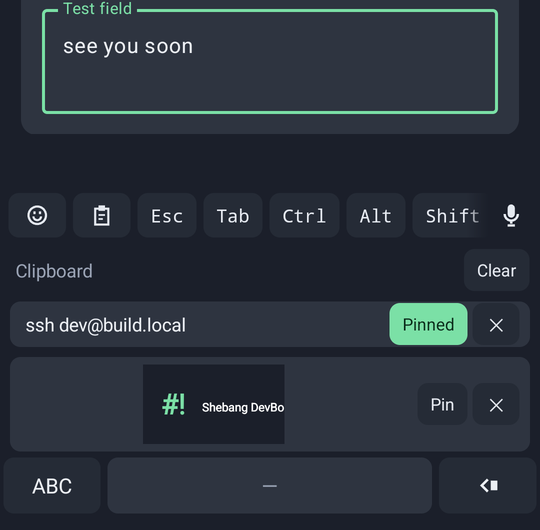
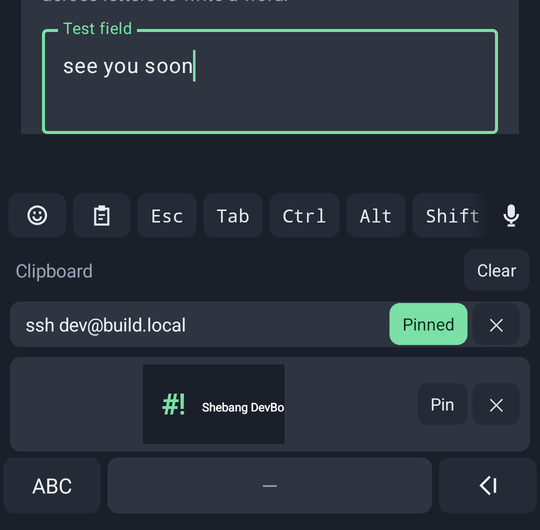
Docs pass: fresh screenshots, README brought up to date
The keyboard screenshots are retaken with the new backspace glyph (Night
theme, same framing). The README's feature list gains the panels, email
addresses and diagnostics; the code table loses KeyEventMapper (gone) and
gains the newer classes; the toolchain notes the voice module and lint; the
autocorrect paragraph has the current contraction rule; the load time is
the latest measurement; the checklist drops the long-press-space and
Search-label items and ticks what was verified on the emulator today.

Claude-Session: https://claude.ai/code/session_01PEB9TZ613mdLMxgXnrAFvE

Changed region(s): [[0.0593, 0.0, 0.9481, 0.1509], [0.0593, 0.2113, 0.9481, 0.2717], [0.8889, 0.9057, 0.9185, 0.9358]]

diff --git a/README.md b/README.md
@@ -2,7 +2,8 @@
 
 An Android keyboard (IME) for developers, written in Kotlin.
 
-- **Text mode**: QWERTY with suggestions, long-press alternates and auto-capitalisation, and glide typing
+- **Text mode**: QWERTY with suggestions, long-press alternates (a letter's capital first) and
+  auto-capitalisation, and glide typing
   that decodes while the finger moves: the strip shows the word before you lift; the word before is taken
   into account; tap inside a word (or double-tap it) and glide to redo it; the keyboard learns your words
   and how you swipe, on the phone; and (optionally) one stroke can write several words by dipping into the
@@ -13,11 +14,14 @@ An Android keyboard (IME) for developers, written in Kotlin.
   they do in text mode; `%` and `^` are held on 5 and 6. No shift, no autocorrect.
 - **Terminal bar**: a horizontally scrolling strip of terminal keys (Esc, Tab, Ctrl, Alt, ^C, arrows, F1-F12,
   snippets...) that sends real `KeyEvent`s, so Termux and other terminals receive them. Sticky modifiers let
-  `Ctrl` then `c` on the main keyboard send Ctrl+C.
+  `Ctrl` then `c` on the main keyboard send Ctrl+C. Its first two items open the emoji panel and the
+  clipboard history (text and pictures, with pins).
 - **Autocorrect that knows where you tapped**: a slip is weighed by where the finger came down, and the
   keyboard learns where your own taps land on each key.
 - **Field-aware**: terminals (`TYPE_NULL`) get raw characters and no composing; passwords get no
   suggestions or glide; number/phone/date fields get a numeric pad; email/URL fields get `@` and `/`.
+- **Email addresses** typed into email fields are offered there again as you type, and **Export
+  diagnostics** saves a file you can send the developer, with nothing personal in it.
 - **Autofill in the strip** (Android 11+): the password manager's or autofill service's suggestions show as
   chips in the strip, in the keyboard's colours; tapping one fills the form.
 - **On-device only**: the sole permission is `VIBRATE`. No network code, no analytics. What the keyboard
@@ -89,13 +93,15 @@ python-ml tools/lm_model/export.py lm.pt app/src/main/assets/dict/en_next_word.b
 
 | Package (`dev.shebang.devboard.`) | What lives there |
 |---|---|
-| `ime` | `DevBoardService` (the `InputMethodService`), `FieldInfo` (EditorInfo -> what the field allows), `TextInputController` (composing, suggestions, smart spacing, redoing a tapped word, what is learned when), `GlideText` (context word and casing), `LanguageLoader` and `LanguageBuilder` (background load and rebuilds with learned words), `SystemUserDictionary` (Android's personal dictionary), `KeyboardSizing`, `Feedback` |
+| `ime` | `DevBoardService` (the `InputMethodService`), `FieldInfo` (EditorInfo -> what the field allows), `TextInputController` (composing, suggestions, smart spacing, redoing a tapped word, what is learned when), `GlideText` (context word and casing), `LanguageLoader` and `LanguageBuilder` (background load and rebuilds with learned words), `SystemUserDictionary` (Android's personal dictionary), `ClipboardHistory` and `ClipboardChip`, `EmailMemory` (remembered addresses), `VoiceClient` (the Shebang Voice add-on) and `DictationCleanup`, `LayoutRepository`, `KeyboardSizing`, `Feedback` |
 | `layout` | JSON models (`LayoutDef`, `KeyDef`, `BarItem`), `LayoutParser`, `KeyboardGeometry` (pixel positions computed at runtime), `KeyCodeNames` |
-| `view` | `KeyboardView` (one Canvas-drawn view with its own multitouch), `KeyPopup` (preview and alternates), `TerminalBarView`, `SuggestionStripView`, `TopStripView`, `KeyboardTheme` |
-| `input` | `ModifierState` (sticky modifier state machine), `KeyEventMapper`/`CharKeyCodes` (character -> keycode plans), `KeySender` (down/up KeyEvents with meta state) |
+| `view` | `KeyboardView` (one Canvas-drawn view with its own multitouch), `KeyPopup` (preview and alternates), `KeyIcons` (the key glyphs), `TerminalBarView`, `SuggestionStripView`, `AutofillStripView`, `TopStripView`, `EmojiPanelView`, `ClipboardPanelView` and `PanelKeys`, `MicButton`, `KeyboardTheme` and `Palettes` |
+| `input` | `ModifierState` (sticky modifier state machine), `CharKeyCodes` and `KeyEventPlan` (character -> keycode plans), `KeySender` (down/up KeyEvents with meta state) |
 | `glide` | `LexiconTrie` (the dictionary as a tree of key sequences), `StreamingGlideDecoder` (beam search while the finger moves, exact re-alignment after lift, joint decoding across words), `GlideModel` (the learned reading of strokes), `GlideSession` (decoder thread fed by a lock-free ring), `GlideAdaptation` and `TapModel` (where this user's glides and taps land), `GlideTrace` (recorded glides), `KeyLayoutModel` |
-| `dict` | `Dictionary` (sorted word list with tiers), `NgramModel` (word, word-pair and three-word statistics), `NextWordModel` (the neural next-word model), `WordPredictions` (the strip's next words from both), `Suggester` (prefix completion + edit-distance correction), `LetterPrior` |
-| `settings` | `Settings`, `SettingsRepository` (DataStore), `SetupActivity`, `SettingsActivity` with the bar editor and the glide recorder (Compose + Material 3), `GlideRecorderView`, `GlideTraceStore` |
+| `dict` | `Dictionary` (sorted word list with tiers), `PersonalWords` (learned words), `NgramModel` (word, word-pair and three-word statistics), `NextWordModel` (the neural next-word model), `WordPredictions` (the strip's next words from both), `Suggester` (prefix completion + edit-distance correction), `LetterPrior` |
+| `settings` | `Settings`, `SettingsRepository` (DataStore), `SetupActivity`, `SettingsActivity` with the bar editor and the glide recorder (Compose + Material 3), `PersonalWordsScreen`, `AboutScreen`, `DiagnosticsExport`, `AppProfiles` (each app's mode and bar), `GlideRecorderView`, `GlideTraceStore` |
+
+The Shebang Voice add-on is the `voice` module (`dev.shebang.devboard.voice`); see its section below.
 
 Layouts live in `app/src/main/assets/layouts/*.json`, the default terminal bar in `assets/bar/default.json`,
 the word list in `assets/dict/en_words.txt`, the n-gram model in `assets/dict/en_ngrams.bin`, the next-word model
@@ -287,7 +293,10 @@ Ambiguities were resolved with the simplest sensible option; each is recorded he
   activity-compose to 1.12.4, the newest releases that compile against 36. Bump all five together when
   platform 37 is installed.
 - **Toolchain**: Gradle 9.7.1, AGP 9.4.1 with its built-in Kotlin support (no `kotlin-android` plugin),
-  Kotlin 2.4.20 compiler plugins for Compose and kotlinx.serialization, JDK 21, single `app` module.
+  Kotlin 2.4.20 compiler plugins for Compose and kotlinx.serialization, JDK 21; two modules, `app` (the
+  keyboard) and `voice` (the Shebang Voice add-on). Static analysis is Android Lint, failing on errors, in CI
+  and in the build; it reports nothing in `voice` and two untranslated labels in `app` (the app is English
+  only), and the Kotlin compiler reports no warnings.
 - **Word list**: SCOWL 2020.12.07, `english` + `american` lists (American spelling), size levels 10 to 50 as
   frequency tiers, plus contractions, capitalised words, SCOWL's proper names (brands, products, people) and
   abbreviations written in capitals of three letters or more (and a few two-letter ones people type, such as
@@ -584,7 +593,7 @@ Ambiguities were resolved with the simplest sensible option; each is recorded he
   never displace it.
 - **Autocorrect** (on space, and on sentence punctuation; on enter and a following glide when the suggestions
   are for the word) leaves a dictionary word alone, except one typed without the apostrophe of a contraction
-  at least 50 times more common ("cant", "wont", "dont"; "its", "were", "well" and "ill" stay). Otherwise the
+  at least 20 times likelier after the two words before it (see "its" or "it's" above). Otherwise the
   most likely of the six suggestions wins, among common words (tier 35 or better, or used by the user) within
   one slip (two from six letters): frequency times exp(-6 x slip cost) times 0.35 for a wrong first letter.
   Slip costs follow how fingers miss on QWERTY: a skipped apostrophe 0.2, one of a double letter dropped 0.4,
@@ -666,9 +675,9 @@ Ambiguities were resolved with the simplest sensible option; each is recorded he
 - **Build order**: the four phases were built in one pass because the service integrates the bar, dictionary
   and glide from the start; the git history groups the work by layer (core logic, IME and UI, docs) with each
   commit building.
-- **Language load time**: the dictionary loads in 2.5 s and the n-gram model and letter tree in 2.7 s on the
-  API 36 emulator right after install (not yet compiled ahead of time); the keyboard appears at once and
-  glide starts working when both are in.
+- **Language load time**: 0.5 to 1.2 s on the API 36 emulator, 2.4 s on the first start after installing
+  (not yet compiled ahead of time); the keyboard appears at once and glide starts working when the language
+  is in. Still to be measured on a phone (R7).
 
 ## Shebang Voice (add-on)
 
@@ -684,7 +693,7 @@ tuned (ARM instruction sets chosen at runtime).
 
 How it works: the keyboard shows a mic at the right end of the strip once the add-on is installed (in text
 mode, in fields that take typed words); otherwise Settings > Voice typing links to the GitHub releases. A tap
-binds the add-on's service with BIND_INCLUDE_CAPABILITIES, which lends it the keyboard's foreground status so
+binds the add-on's service with BIND_INCLUDE_CAPABILITIES (Android 10 and later), which lends it the keyboard's foreground status so
 Android does not silence its microphone. The add-on answers only apps signed with its own key, so the
 keyboard needs no permission entry for it (a `<queries>` entry lets it see the add-on). It records,
 cuts the audio at 500 ms pauses (or at 25 s), and transcribes each piece as it comes, so text arrives sentence by sentence;
@@ -765,9 +774,16 @@ Fields (the setup screen has a multiline test field; a browser form has the rest
 - [ ] Password: no suggestions, no glide, no preview text left anywhere.
 - [x] Autofill (with a test autofill service on the emulator): chips in the strip in the keyboard's colours;
   tapping one filled the username and password.
-- [ ] URL/email: `@` and `/` on the bottom row; no auto-capitalisation.
+- [x] Email: `@` and `/` on the bottom row. *(verified on the emulator in Contacts)*
+- [ ] URL: `@` and `/` on the bottom row; no auto-capitalisation in URL or email fields.
+- [x] Email field: an address typed there and left is offered in an empty email field and fills it in.
+      *(verified on the emulator in Contacts)*
 - [ ] Number/phone: numeric pad; `#!` still reaches code mode.
-- [ ] Multiline: Enter inserts a newline; a Search field shows "Search" and performs it.
+- [ ] Multiline: Enter inserts a newline; a Search field keeps the enter icon and performs the search.
+- [x] Type "wiht cat ", backspace back to the corrected "with": it stays, and "wiht" is first on the strip;
+      tapping it puts it back. *(verified on the emulator)*
+- [x] Settings > About > Export diagnostics saves a file with no learned words or email addresses in it.
+      *(verified on the emulator)*
 
 Layout:
 - [x] Rotate to landscape: keys re-flow to the IME window's width (narrower than the display with a cutout),
@@ -775,5 +791,10 @@ Layout:
 - [ ] Change keyboard height in settings: the keyboard resizes immediately; glide still decodes.
 - [ ] Number row on: a fifth row appears in text mode only.
 - [ ] Strip: Auto swaps bar and suggestions; Always bar never shows suggestions; Two rows shows both.
-- [ ] Long-press space opens the system keyboard picker; dragging along space moves the cursor.
-- [ ] Shift: tap once for one capital (caret over a bar); tap twice quickly, or hold it, for caps lock (two carets over a bar, accent-coloured key).
+- [ ] Holding #! (or ABC) opens the system keyboard picker; dragging along space moves the cursor.
+- [x] Shift: tap once for one capital (caret over a bar); tap twice quickly, or hold it, for caps lock (two
+      carets over a bar, accent-coloured key). *(hold verified on the emulator)*
+- [x] Hold "e": E is first in the row and lifting types it; hold "a", slide into the row and back down onto
+      the key: lifting types "a". *(verified on the emulator)*
+- [x] Emoji and clipboard panels from the bar: Recent emoji, a pinned copy and a picture in the history.
+      *(verified on the emulator)*
